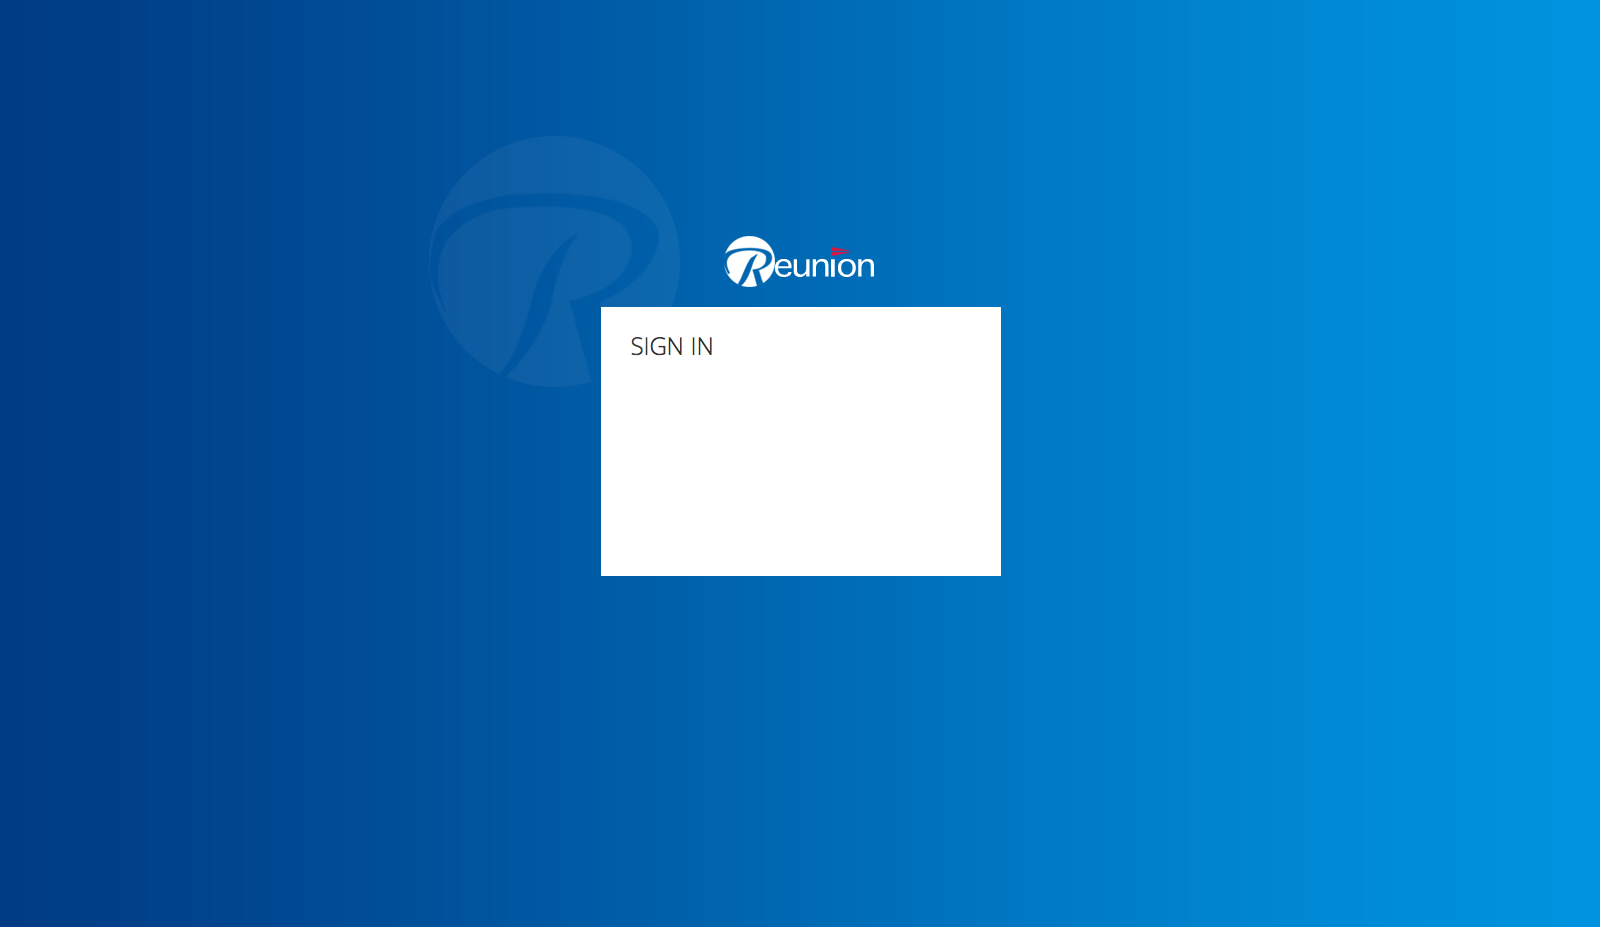
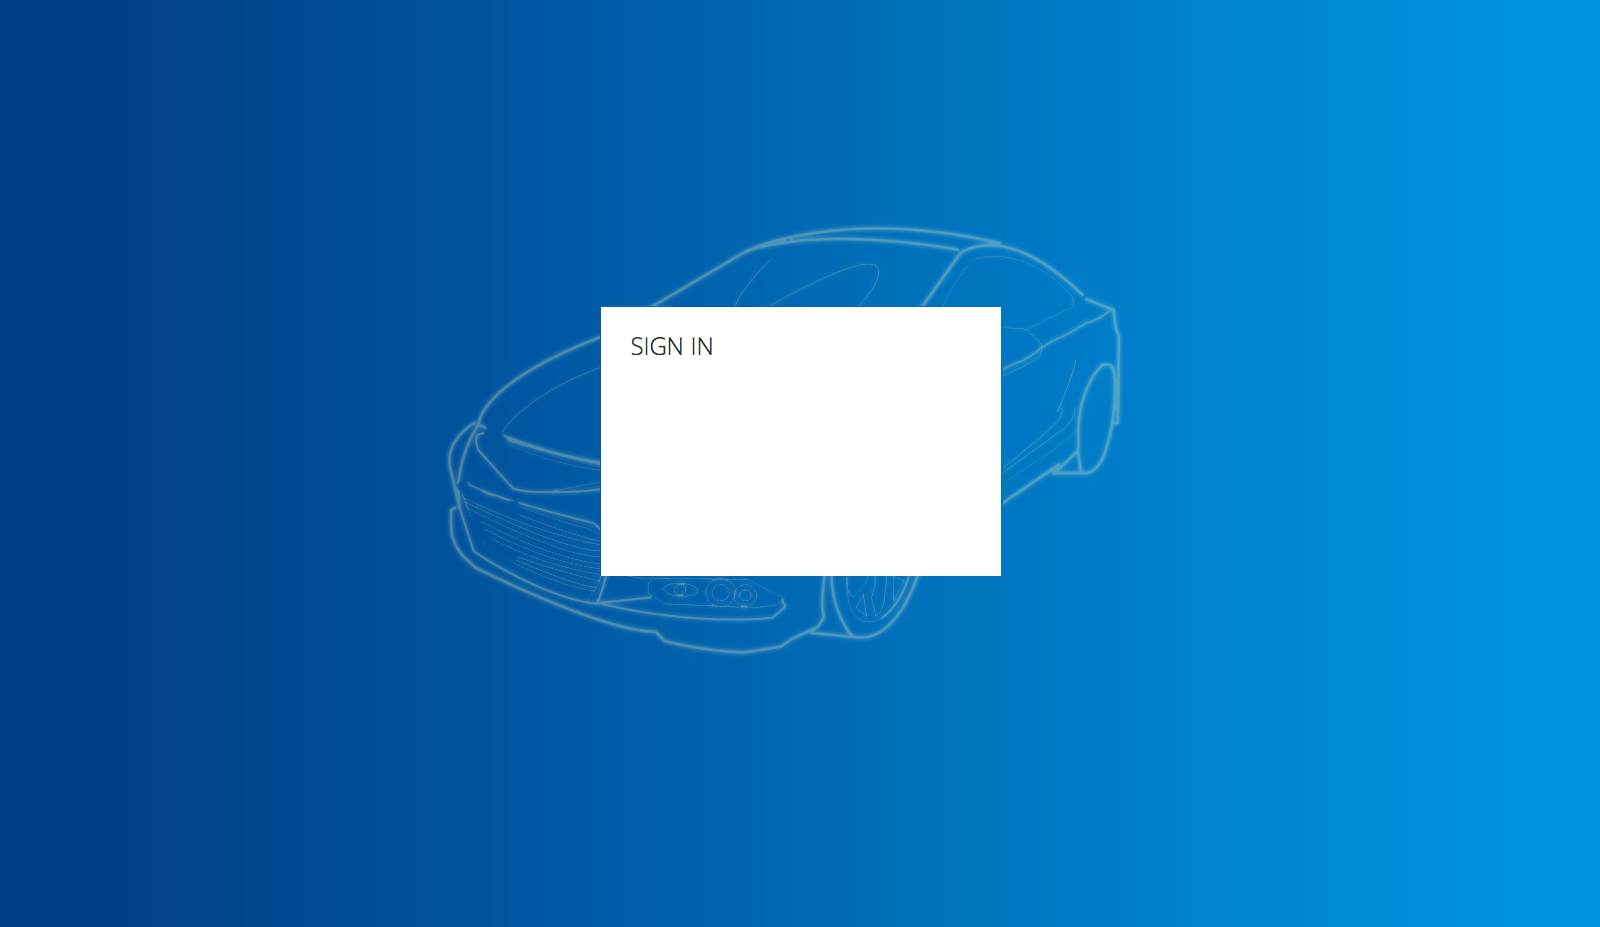
init

diff --git a/css/login.css b/css/login.css
@@ -1,6 +1,14 @@
-body {margin:0;padding:0;color:#333;font-size:12px;font-family:arial;background: url(../images/admin_bg.png) #FFF center -120px;;}
+body {margin:0;padding:0;color:#333;font-size:12px;font-family:arial;background: url(../images/admin_bg1.png) #FFF center -120px;;}
 html {margin:0;padding:0;border:0;}
-.panel {position:absolute;top:185px;left:50%;margin-left:-200px;width:400px;height:270px;}
+.panel {position: absolute;
+    top: 185px;
+    left: 50%;
+    margin-left: -200px;
+    width: 400px;
+    height: 270px;
+    background-color: white;
+    border-radius: 10px;
+    opacity: 0.9;}
 .panel .username {position:absolute;top:80px;left:32px;width:330px;height:30px;border:1px solid #CCC;background:#EEE;font-size:18px;padding-left:5px;}
 .panel .password {position:absolute;top:140px;left:32px;width:330px;height:30px;border:1px solid #CCC;background:#EEE;font-size:18px;padding-left:5px;}
 .panel .rememberme {position:absolute;bottom:50px;left:30px;}
